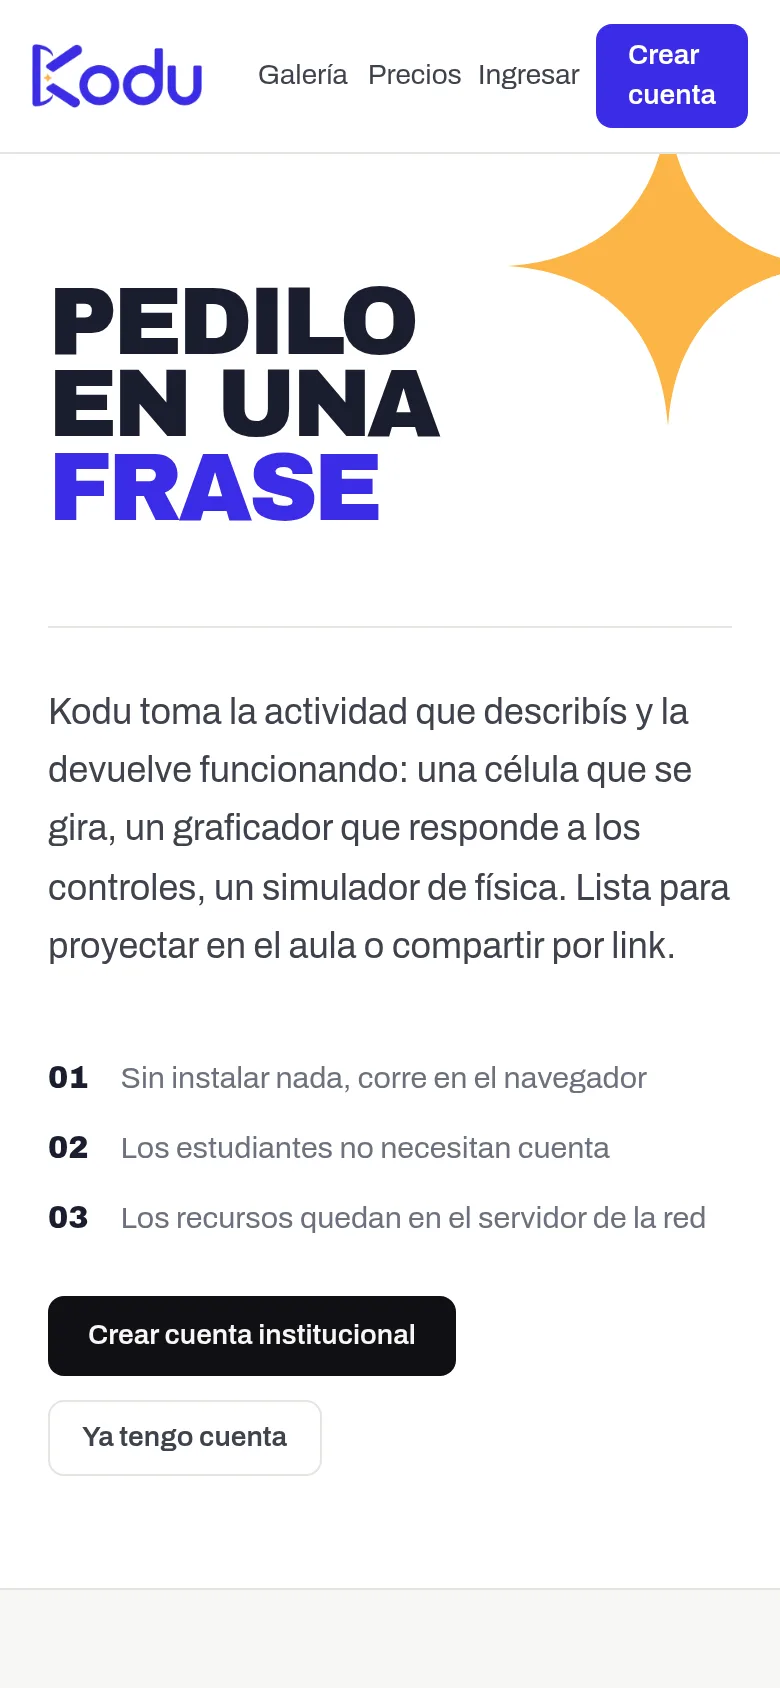
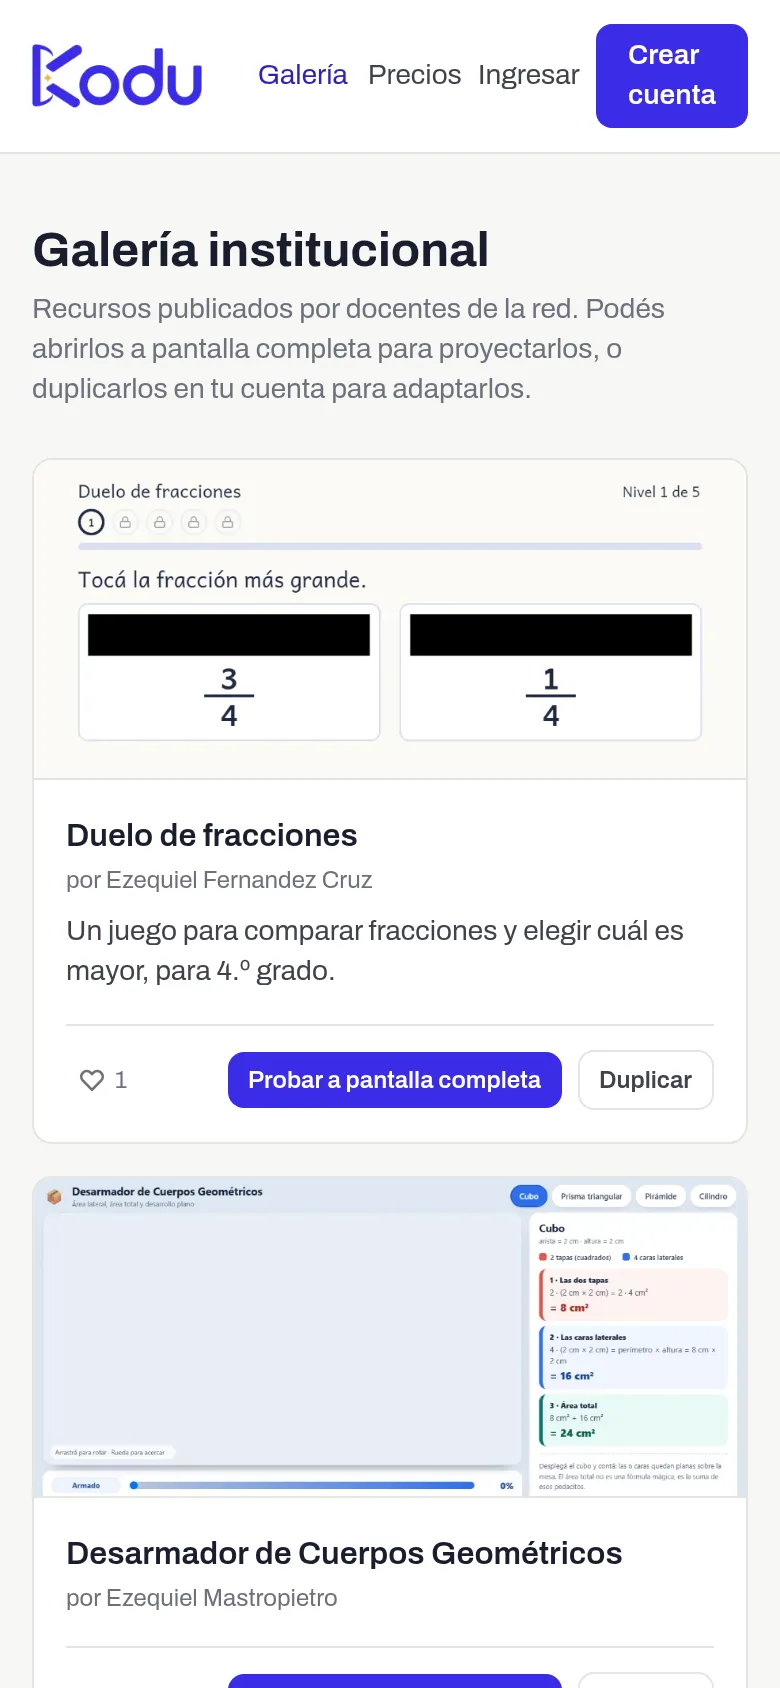
fix(site): fix margin line, section spacing, bitácora dates, herramientas crop
Address desktop review findings on the education-brand home redesign:

- the red margin line only spanned the hero row because grid-row: 1 / -1
  resolves against the explicit grid (0 rows defined), not the implicit one;
  switched it to an absolutely-positioned child of <main> spanning its full
  height instead
- display: contents on each section voided its own padding, so sections had
  no gap on desktop; moved spacing to row-gap on the shared grid (8rem
  desktop) and a dedicated mobile padding-block (~5rem)
- hero's margin date and each bitácora entry's date now align to their own
  content line via a reusable .margen-nota (absolute, offset back into the
  margin column) instead of the whole-section mark
- bitácora grouped by month, ruled background removed, thumbnail moved into
  a fixed-width cell so rows no longer zigzag
- Loop's herramientas screenshot cropped 4/5 object-top like the others,
  closing the row-1 height gap against Kodu
- Kodu's capturaMovil replaced with the new gallery mobile capture
- Camino's resumen copy no longer claims an unverified detail

Also: regenerated the stale local Prisma client, which was the real cause of
the 48 astro check errors reported earlier (not a pre-existing baseline);
npm run check now gives 0 errors and npm run build passes fully.

diff --git a/src/styles/site.css b/src/styles/site.css
@@ -108,12 +108,19 @@ summary {
 }
 
 /*
- * El margen: the notebook's red margin line, as ONE continuous page grid for
- * the whole <main>. Each <section class="el-margen__section"> becomes
- * `display: contents` on desktop so its margin-mark and content land as grid
- * items in the shared columns (one row per section); on mobile the grid
- * collapses and the section renders as a normal block with the margin
- * texts inline above their content.
+ * El margen: the notebook's red margin line. On desktop <main> is a 3-column
+ * grid (margin mark | rule | content); the continuous red line is an
+ * absolutely-positioned child of <main> (not a grid row-span: `grid-row: 1 /
+ * -1` resolves against the EXPLICIT grid, which has no rows here, so it only
+ * ever spanned the first auto row — measured and confirmed, see commit
+ * notes). Sections keep one grid row each (mark + content), spaced out with
+ * `row-gap`. Fine-grained margin notes that must align to a specific line
+ * inside a content cell (the hero's "Lo último" row, each bitácora entry's
+ * date) use `.margen-nota`: an absolutely-positioned child of a
+ * `position: relative` wrapper inside that content cell, offset back into
+ * the margin column — this sidesteps subgrid entirely.
+ * On mobile the grid collapses; each `.el-margen__section` instead renders
+ * as a block with its own red bar via ::before.
  */
 main.el-margen {
   display: block;
@@ -124,10 +131,13 @@ main.el-margen {
 
 @media (min-width: 768px) {
   main.el-margen {
+    position: relative;
     display: grid;
     grid-template-columns: 9rem 2px minmax(0, 68rem);
     column-gap: 2rem;
+    row-gap: 8rem;
     padding-inline: 2rem;
+    padding-block: 4rem;
   }
 }
 
@@ -141,8 +151,14 @@ main.el-margen {
 @media (min-width: 768px) {
   .el-margen__rule {
     display: block;
-    grid-column: 2;
-    grid-row: 1 / -1;
+    position: absolute;
+    top: 0;
+    bottom: 0;
+    /* Containing block is main's padding box: back out past content's
+       padding-inline (2rem) + gap (2rem) + the 2px rule track + gap (2rem)
+       to land the line exactly between the margin and content columns. */
+    left: calc(2rem + 9rem + 2rem);
+    width: 2px;
   }
 }
 
@@ -188,6 +204,7 @@ html.motion-ready .el-margen__rule {
     display: block;
     padding-left: 30px;
     padding-right: 16px;
+    padding-block: 2.5rem;
   }
 
   .el-margen__section::before {
@@ -198,5 +215,15 @@ html.motion-ready .el-margen__rule {
     left: 14px;
     width: 3px;
     background: var(--color-red);
+  }
+}
+
+/* A margin note tied to one specific line inside a content cell (see above). */
+@media (min-width: 768px) {
+  .margen-nota {
+    position: absolute;
+    top: 0;
+    left: calc(-9rem - 2rem - 2px - 2rem);
+    width: 9rem;
   }
 }

diff --git a/odd/tasks/sitio-educacion.md b/odd/tasks/sitio-educacion.md
@@ -64,11 +64,52 @@ RDD: off globally since 2026-09-23 (user decision) → no review ceremony; ordin
 
 ## Tasks
 
-- [ ] T1 Content model: new `proyectos` collection (schema, entries, optimized screenshots); old
+- [x] T1 Content model: new `proyectos` collection (schema, entries, optimized screenshots); old
       portfolio entries and screenshots removed. Route: delegated (writer, 2+ files).
-- [ ] T2 Public layout and tokens: `site.css`, `BaseLayout` without chatbot, header and footer.
-      Route: delegated (same writer).
-- [ ] T3 Home sections: hero, team, tools, resources, bitácora, join/contact. Route: delegated.
+      Commit: 1472a60 feat(content): replace projects collection with education proyectos.
+- [x] T2 Public layout and tokens: `site.css`, `BaseLayout` without chatbot, header and footer.
+      Route: delegated (same writer). Committed together with T3 (inseparable).
+- [x] T3 Home sections: hero, team, tools, resources, bitácora, join/contact. Route: delegated.
+      Commit: 1d5544c feat(site): redesign public site as education brand.
+      Checks: `npm run check` (48 pre-existing baseline errors in app/brief.astro and
+      app/mensajes.astro from Prisma schema drift, unrelated to this change, confirmed
+      identical on master before this branch; zero new errors), `npm run lint` (clean),
+      `npx astro build` (completes; the gated `npm run build` script only fails because
+      its `astro check &&` prefix hits the same pre-existing baseline). Browser-checked at
+      390x844 and 1440x900, light and dark, full page: fixed two bugs found this way (dark
+      mode not applying because `@theme` cannot be nested in `@media` in Tailwind v4 — fixed
+      by overriding plain `--color-*` custom properties instead; the "el margen" red line
+      was drawing as separate short bars per section instead of one continuous line — fixed
+      by making `<main>` the single grid and `display:contents` sections). `/login`,
+      `/registro`, `/recuperar`, `/terminos-y-condiciones`, `/` all return 200 on the dev
+      server.
+- [x] Desktop review fixes (coordinator pass): stale local Prisma client was the actual
+      cause of the 48 `astro check` errors, not a baseline — ran `npx prisma generate`,
+      `npm run check` now gives 0 errors and `npm run build` (dummy env) passes fully.
+      Fixed: (1) the red "el margen" line only spanned the hero row because
+      `grid-row: 1 / -1` resolves against the explicit grid (which had 0 explicit rows),
+      not the implicit one — measured via `getBoundingClientRect` (line was 647px of
+      main's 6115px); switched the line to an absolutely-positioned child of `<main>`
+      instead of a grid-row span; re-measured after the fix: line top/bottom now exactly
+      match `<main>`'s own top/bottom (both 88.28 to 6811.6px). (2) `display: contents` on
+      each section voided its own Tailwind padding, so desktop sections touched — moved to
+      `row-gap: 8rem` on the shared grid (mobile keeps its own `padding-block: 2.5rem` per
+      section, i.e. ~5rem between). (3) hero's margin date now sits beside the "Lo último"
+      row via a `.margen-nota` (position:absolute, offset back into the margin column from
+      a `position:relative` wrapper) instead of the section-level mark; same technique
+      drives each bitácora entry's date. Hero mobile thumbnail now 112×70 `object-top`.
+      (4) bitácora rebuilt: grouped by month (heading in content column, year not repeated
+      per entry), ruled background removed, thumbnail in a fixed-width flex cell so rows no
+      longer zigzag. (5) Loop's herramientas image now `aspect-[4/5] object-top` like the
+      others, closing the row-1 height gap. (6) Kodu's `capturaMovil` replaced with the new
+      gallery mobile capture. (7) confirmed via Playwright (`img.complete && naturalWidth >
+      0` over every `document.images`) that all 20 images on `/` loaded after a stepped
+      scroll-to-bottom before the full-page capture, in all 4 combinations (1440/390 ×
+      light/dark) — 20/20 ok each time; the earlier blank captures were a screenshot-timing
+      artifact (native lazy-loading needs scroll proximity), not a real asset failure.
+      (8) Camino's resumen copy updated to the unverified-claim-free wording.
+      Checks re-run: `npm run check` (0 errors), `npm run lint` (clean), `npm run build`
+      with dummy env (completes). Routes still 200. Commit: see git log.
 - [ ] CHECKPOINT: show visual direction (2–3 lines + home screenshot) and ask about doubtful apps.
 - [ ] T4 Remaining pages: full bitácora view if needed, terms page on the new layout, OG image, meta.
 - [ ] T5 Cleanup: delete unused public components/assets; keep portal-shared pieces.
